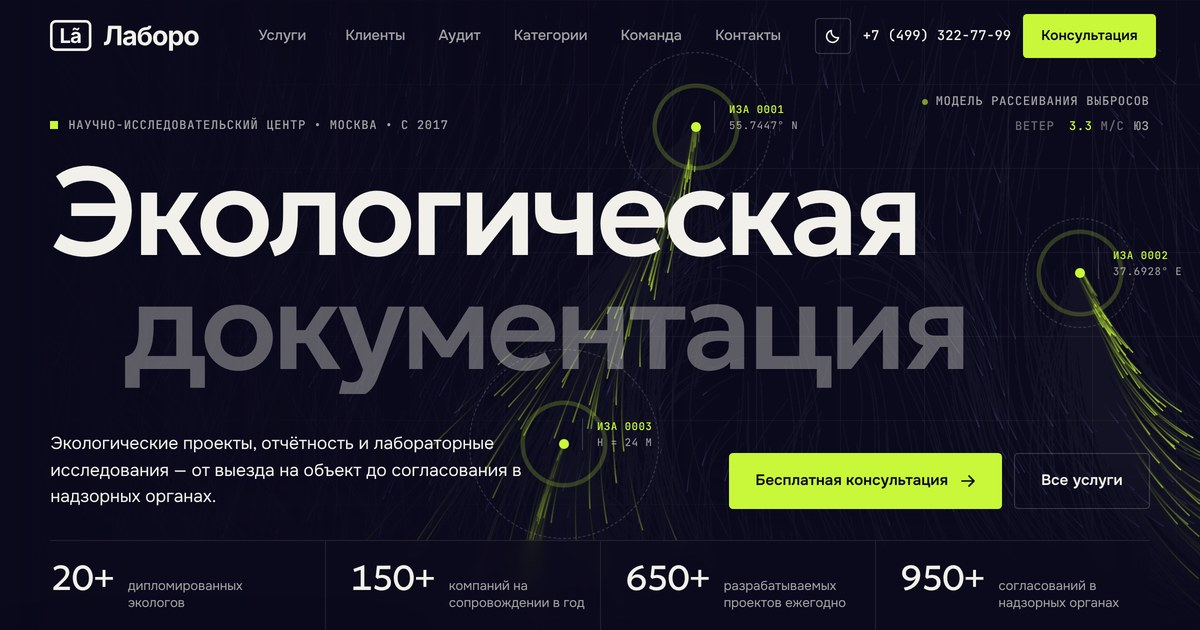
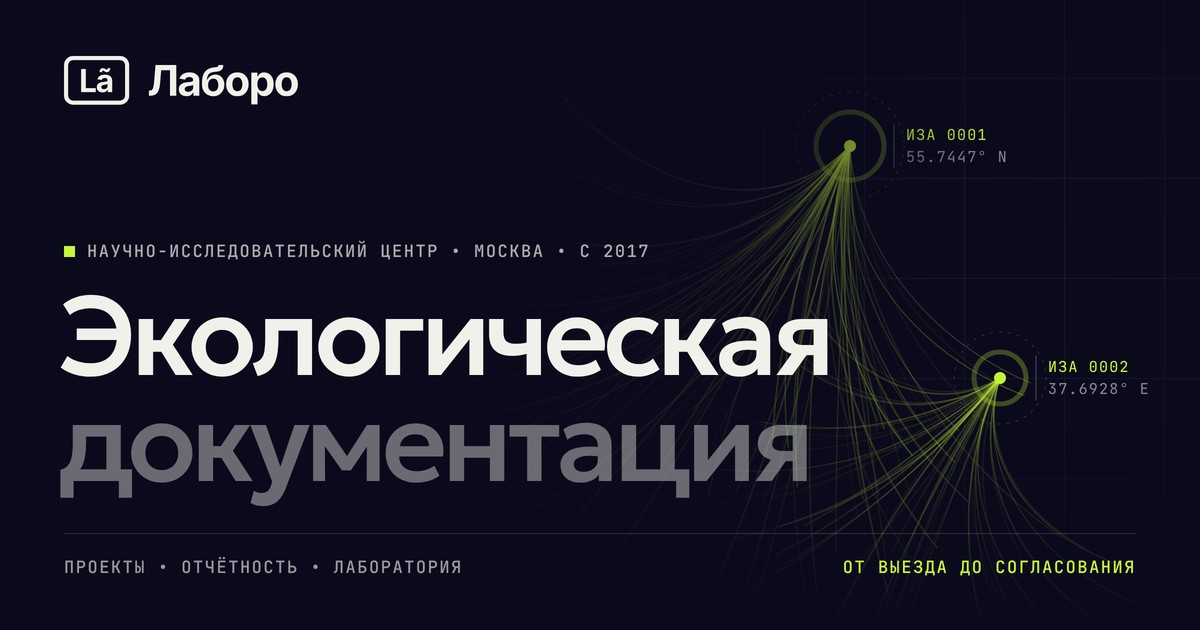
Обложка для превью ссылки вместо снимка экрана
Claude-Session: https://claude.ai/code/session_01FDnpGxQ6aJYWRAjZ88id4a

diff --git a/source/brand/og.js b/source/brand/og.js
@@ -1,0 +1,3 @@
+const { chromium } = require('playwright'); const d = __dirname;
+(async () => { const b = await chromium.launch(); const p = await b.newPage({ viewport: { width: 1200, height: 630 }, deviceScaleFactor: 2 });
+  await p.goto('file://' + d + '/og.html'); await p.evaluate(() => document.fonts.ready); await p.waitForTimeout(300); await p.screenshot({ path: d + '/og.png' }); await b.close(); })();

diff --git a/source/brand/og.py b/source/brand/og.py
@@ -1,0 +1,42 @@
+# Обложка для превью ссылки (Open Graph), 1200×630. Запуск: python3 brand/og.py && node brand/og.js
+import os, json, base64, math, random
+R=os.path.dirname(os.path.dirname(os.path.abspath(__file__))); F=f'{R}/fonts/node_modules/@fontsource-variable'
+def face(fam,pkg,sub):
+    b=base64.b64encode(open(f'{F}/{pkg}/files/{pkg}-{sub}-wght-normal.woff2','rb').read()).decode()
+    rng='U+0400-045F,U+0490-0491,U+2116' if sub=='cyrillic' else 'U+0000-00FF,U+2000-206F,U+2022'
+    return f"@font-face{{font-family:'{fam}';font-weight:100 900;src:url(data:font/woff2;base64,{b}) format('woff2');unicode-range:{rng}}}"
+fonts=''.join(face(f,p,s) for f,p in (('Geologica','geologica'),('JetBrains Mono','jetbrains-mono')) for s in ('cyrillic','latin'))
+logo=json.load(open(f'{R}/brand/logo.json'))['logo']
+random.seed(7)
+def plume(sx,sy,ang,spread,n,length):
+    out=[]
+    for i in range(n):
+        t=(i/(n-1)-.5); a=math.radians(ang+t*spread+random.uniform(-2,2)); L=length*random.uniform(.55,1.05)
+        bend=random.uniform(-.5,.5)+t*1.1
+        c1=(sx+math.cos(a)*L*.35, sy+math.sin(a)*L*.35)
+        a2=a+bend*.55; c2=(sx+math.cos(a2)*L*.7, sy+math.sin(a2)*L*.7)
+        a3=a+bend; e=(sx+math.cos(a3)*L, sy+math.sin(a3)*L)
+        o=random.uniform(.10,.55)*(1-abs(t)*.9); w=random.uniform(.8,1.8)
+        out.append(f'<path d="M{sx:.1f} {sy:.1f}C{c1[0]:.1f} {c1[1]:.1f} {c2[0]:.1f} {c2[1]:.1f} {e[0]:.1f} {e[1]:.1f}" stroke-width="{w:.2f}" opacity="{o:.2f}"/>')
+    return ''.join(out)
+def src(x,y,r,label,sub):
+    return f'<circle cx="{x}" cy="{y}" r="{r}" fill="none" stroke="#c9f73a" stroke-opacity=".28" stroke-width="5"/><circle cx="{x}" cy="{y}" r="{r+20}" fill="none" stroke="#fff" stroke-opacity=".16" stroke-dasharray="2 7"/><circle cx="{x}" cy="{y}" r="6" fill="#c9f73a"/><path d="M{x+r+10} {y-22}V{y+22}" stroke="#fff" stroke-opacity=".25"/><text x="{x+r+22}" y="{y-6}" fill="#c9f73a">{label}</text><text x="{x+r+22}" y="{y+16}" fill="#fff" fill-opacity=".5">{sub}</text>'
+art=f'''<svg class="art" viewBox="0 0 1200 630" fill="none" stroke-linecap="round"><g stroke="#c9f73a">{plume(850,146,112,50,70,500)}{plume(1000,378,128,44,44,330)}</g><g font-family="JetBrains Mono" font-size="15" letter-spacing="1.2">{src(850,146,34,'ИЗА 0001','55.7447° N')}{src(1000,378,26,'ИЗА 0002','37.6928° E')}</g></svg>'''
+html=f'''<!DOCTYPE html><html lang="ru"><head><meta charset="utf-8"><style>{fonts}
+*{{box-sizing:border-box}}html,body{{margin:0}}
+body{{width:1200px;height:630px;background:#0b0a1c;color:#f1f0ea;position:relative;overflow:hidden;font-family:'Geologica',sans-serif;-webkit-font-smoothing:antialiased}}
+.grid{{position:absolute;inset:0;background-image:linear-gradient(rgba(255,255,255,.07) 1px,transparent 1px),linear-gradient(90deg,rgba(255,255,255,.07) 1px,transparent 1px);background-size:100px 100px;background-position:-36px -22px;-webkit-mask-image:radial-gradient(90% 100% at 70% 40%,#000,transparent 85%)}}
+.art{{position:absolute;inset:0;width:1200px;height:630px}}
+.veil{{position:absolute;inset:0;background:linear-gradient(90deg,#0b0a1c 0,#0b0a1c 38%,rgba(11,10,28,.82) 60%,rgba(11,10,28,0) 84%),linear-gradient(0deg,#0b0a1c 0,rgba(11,10,28,0) 34%)}}
+.in{{position:absolute;inset:0;padding:56px 64px 52px;display:flex;flex-direction:column}}
+.lg{{width:236px;height:auto;display:block;color:#f1f0ea}}
+.mono{{font-family:'JetBrains Mono',monospace;font-weight:500;font-size:17px;letter-spacing:.09em;text-transform:uppercase}}
+.eye{{display:flex;align-items:center;gap:12px;color:rgba(241,240,234,.7);margin-top:auto}}.eye::before{{content:'';width:11px;height:11px;background:#c9f73a}}
+h1{{font-weight:500;font-size:112px;line-height:.94;letter-spacing:-.05em;margin:22px 0 0 -6px}}h1 span{{display:block;color:rgba(241,240,234,.42)}}
+.ft{{display:flex;justify-content:space-between;align-items:center;margin-top:38px;padding-top:22px;border-top:1px solid rgba(255,255,255,.14);color:rgba(241,240,234,.62)}}.ft b{{font-weight:500;color:#c9f73a}}
+</style></head><body><div class="grid"></div>{art}<div class="veil"></div>
+<div class="in">{logo}
+<div class="eye mono">Научно-исследовательский центр • Москва • с 2017</div>
+<h1>Экологическая<span>документация</span></h1>
+<div class="ft mono"><span>Проекты • Отчётность • Лаборатория</span><b>от выезда до согласования</b></div></div></body></html>'''
+open(f'{R}/brand/og.html','w').write(html)

diff --git a/docs/HANDOFF.md b/docs/HANDOFF.md
@@ -99,7 +99,7 @@
 - Меню «Услуги»: в колонках «Лаборатория» и «Другие услуги» сокращений нет, поэтому отступ слева убран; эти колонки сужены, «Проекты» и «Отчётность» расширены.
 
 **v1.003**
-- Превью ссылки (Open Graph): `og.jpg` 1200×630 — первый экран в тёмной теме; метатеги добавляются при сборке (`build.py`, адрес сайта в переменной `SITE`). Картинка снимается скриптом `src/og.js`.
+- Превью ссылки (Open Graph): `og.jpg` 1200×630; метатеги добавляются при сборке (`build.py`, адрес сайта в переменной `SITE`). Сначала это был снимок первого экрана (`src/og.js`), затем заменён отдельной обложкой в тёмной теме: логотип, заголовок «Экологическая документация», подписи, шлейфы выбросов — генератор `brand/og.py` + `brand/og.js`.
 - Страница 404 (рак гнёт трубу конкурента): светлая тема по умолчанию, подхватывает тему, выбранную на сайте.
 
 **v1.004**
